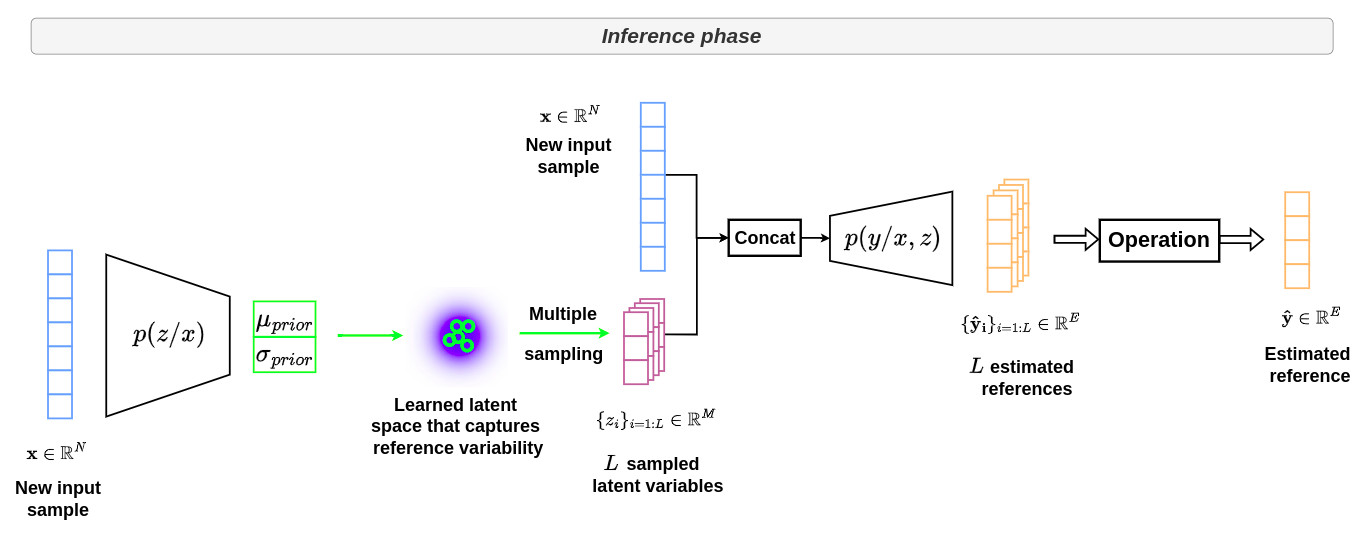
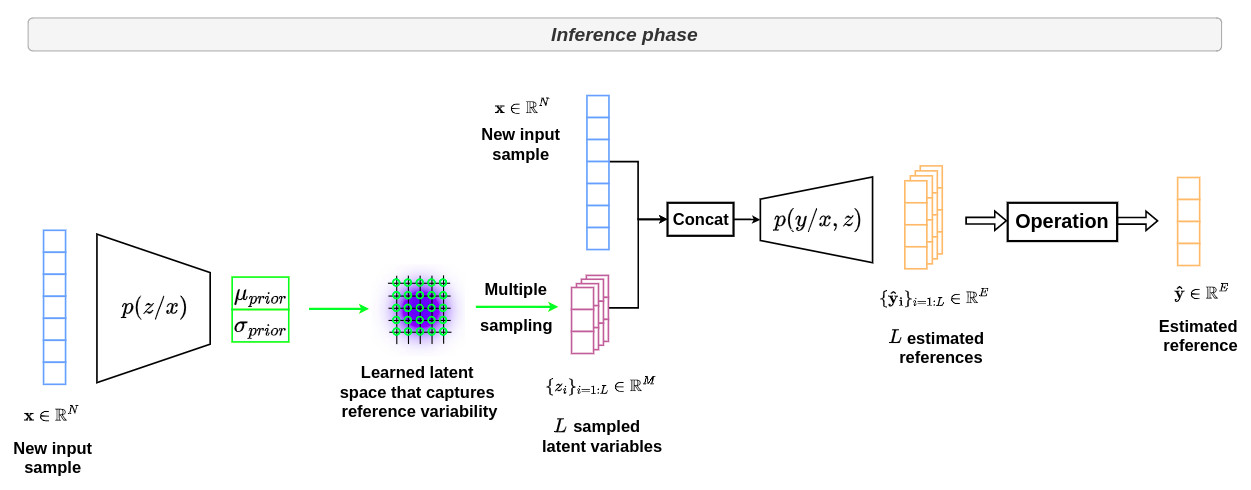
finalize first draft of the full theoritical part, now working on the simple example section ;)

diff --git a/collections/_tutorials/2022-09-12-tutorial-cvae.md b/collections/_tutorials/2022-09-12-tutorial-cvae.md
@@ -8,7 +8,7 @@ categories: autoencoder, conditional, variational, VAE
 
 # Notes
 
-* This tutorial was mainly inspired by the following two papers: [paper1](https://papers.nips.cc/paper/2015/hash/8d55a249e6baa5c06772297520da2051-Abstract.html) and [paper2](https://proceedings.neurips.cc/paper/2018/file/473447ac58e1cd7e96172575f48dca3b-Paper.pdf).
+* This tutorial was mainly inspired by the following two papers: [Sohn *et al.*, NeurIPS 2015](https://papers.nips.cc/paper/2015/hash/8d55a249e6baa5c06772297520da2051-Abstract.html) and [Kohl *et al.*, NeurIPS 2018](https://proceedings.neurips.cc/paper/2018/file/473447ac58e1cd7e96172575f48dca3b-Paper.pdf).
 
 - [**Introduction**](#introduction)
   - [VAE](#vae)
@@ -21,6 +21,7 @@ categories: autoencoder, conditional, variational, VAE
 - [**Various scenarios**](#various-scenarios)
   - [Pior modeling](#pior-modeling)
   - [References content](#references-content)
+- [**Simple example**](#simple-example)
 
 &nbsp;
 
@@ -216,11 +217,23 @@ where $$\mathbb{E}_{z\sim q(z/x,y)}$$ is the mathematical expectation with respe
 
 &nbsp;
 
-Noting that the generative model $$p(y/x,z)$$ is also modeled by a neural network $$f(\cdot)$$, we are finally looking for:
+At this stage of analysis, it is necessary to model $$p(y/x,y)$$ via an a priori distribution. Let's first note that $$p(y/x,z)$$ is modeled by a neural network $$f(\cdot)$$ so that $$\hat{y}=f(x,z)$$. Since this function is deterministic, it will allow to modeled $$p\left(y/\hat{y}\right)$$. By approximating $$p\left(y/\hat{y}\right)$$ by a Bernoulli distribution, we have
 
-$$\left(f^*,g^*,h^*,k^*,l^*\right) = \underset{(f,g,h,k,l)}{\arg\max} \,\,\, \left( \mathbb{E}_{z\sim q(z/x,y)} [log(\underbrace{p(y/x,z)}_{f})] - D_{KL}(\underbrace{q(z/x,y)}_{g,h}\parallel \underbrace{p(z/x)}_{k,l}) \right)$$
+$$\mathbb{E}_{z\sim q(z/x,y)} \left[log\left(p(y/\hat{y})\right)\right] = \mathbb{E}_{z\sim q(z/x,y)} \left[log\left( {\hat{y}}^y \cdot \left(1-\hat{y}\right)^{1-y} \right)\right]$$
 
-$$\left(f^*,g^*,h^*,k^*,l^*\right) = \underset{(f,g,h,k,l)}{\arg\min} \,\,\, \left( \mathbb{E}_{z\sim q(z/x,y)} [-log(\underbrace{p(y/x,z)}_{f})] + D_{KL}(\underbrace{q(z/x,y)}_{g,h}\parallel \underbrace{p(z/x)}_{k,l}) \right)$$
+$$ = \mathbb{E}_{z\sim q(z/x,y)} \left[ y \, log\left( \hat{y} \right) + \left(1-y\right) \, log\left(1-\hat{y}\right) \right]$$
+
+$$ = \mathbb{E}_{z\sim q(z/x,y)} \left[-CE\left( y,f\left(x,z\right)\right)\right]$$
+
+where $$CE(\cdot)$$ corresponds to the conventional cross entropy function !
+
+&nbsp;
+
+Thanks to this modeling, we are finally looking for:
+
+$$\left(f^*,g^*,h^*,k^*,l^*\right) = \underset{(f,g,h,k,l)}{\arg\max} \,\,\, \left( \mathbb{E}_{z\sim q(z/x,y)} [-CE\left( y,f\left(x,z\right)\right)] - D_{KL}(\underbrace{q(z/x,y)}_{g,h}\parallel \underbrace{p(z/x)}_{k,l}) \right)$$
+
+$$\left(f^*,g^*,h^*,k^*,l^*\right) = \underset{(f,g,h,k,l)}{\arg\min} \,\,\, \left( \mathbb{E}_{z\sim q(z/x,y)} [CE\left( y,f\left(x,z\right)\right)] + D_{KL}(\underbrace{q(z/x,y)}_{g,h}\parallel \underbrace{p(z/x)}_{k,l}) \right)$$
 
 &nbsp;
 
@@ -234,12 +247,34 @@ The prior $$p(z/x)$$ outputs a latent variable $$z$$ depending on the input $$x$
 
 ![](/collections/images/cvae/cvae_prior_depending_on_x.jpg)
 
-TODO => Center everything on the origin of the space with covariance of 1 in the latent space => close to VAE formalism
+
+Several works in the literature propose to relax this constraint to make the latent variables statistically independent of input variables, i.e. $$p(z/x) = p(z)$$ with $$z \sim \mathcal{N}\left(0,I\right)$$. This implies that the latent space is forced to be centered at the origin with unit variance, which makes the posterior modeling strategy close to that used in standard VAE, as illustrated in the figure below.
 
 ![](/collections/images/cvae/cvae_prior_no_depending_on_x.jpg)
 
 ### References content
 
+Depending on the type of reference available, the value of conditional VAE can be different.
+
+* If there exist only one reference for a given input, the interest of the conditional VAE resides in the mixing of the input $$x$$ data with the corresponding $$y$$ in the latent space through the modeling of $$p(z/x,y)$$. This can be viewed as a regularisation process that "efficiently" integrates reference information during inference thanks to the deicated latant space and the mapping $$p(y/x,z)$$. 
+
+> In the context of segmentation, modeling $$p(z/x,y)$$ can be seen as an "efficient" way to integrate shape prior into the latent space. 
+
+&nbsp;
+
+* If there exists several references for a given input, which is the case when we want to model inter/intra-expert variability, the interest of the conditional VAE resides in the capacity of modeling the reference variability into the latent space through the modeling of $$p(z/x,y)$$. In this way, a single input corresponds to several latent variables that are located in a nearby region of the space, as illustated in the figure below.
+
+![](/collections/images/cvae/cvae_prior_depending_on_x_multiple_y.jpg)
+
+During inference, the latent space modeled by the prior is several multiple times to generate multiple plausible references $$\hat{y}_i$$ from a given input $$x$$ taking into account the learned variability, as shown in the figure below.
+
+![](/collections/images/cvae/cvae_prior_depending_on_x_multiple_y_inference.jpg)
+
+> In the context of segmentation, this approach is useful for learning about inter-expert variability.
+
+&nbsp;
+
+## Simple example
 
 
 
